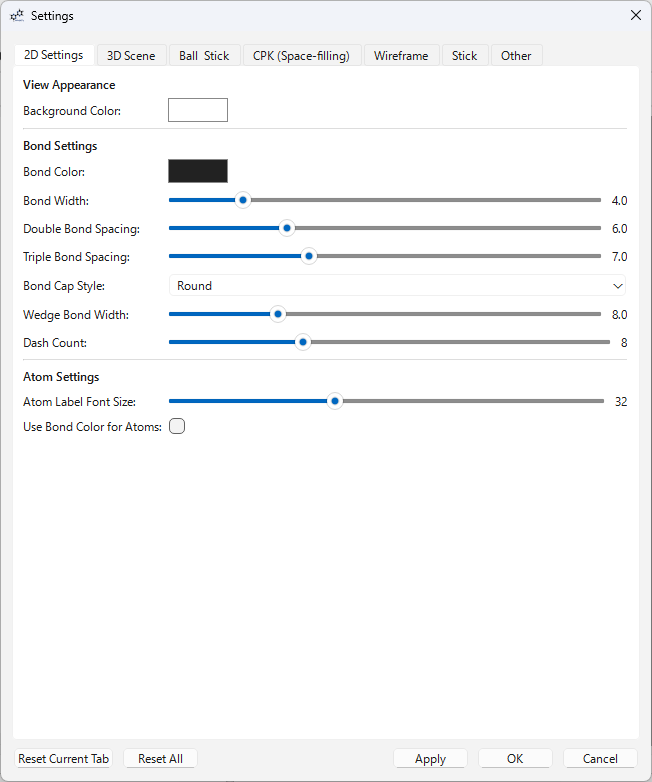
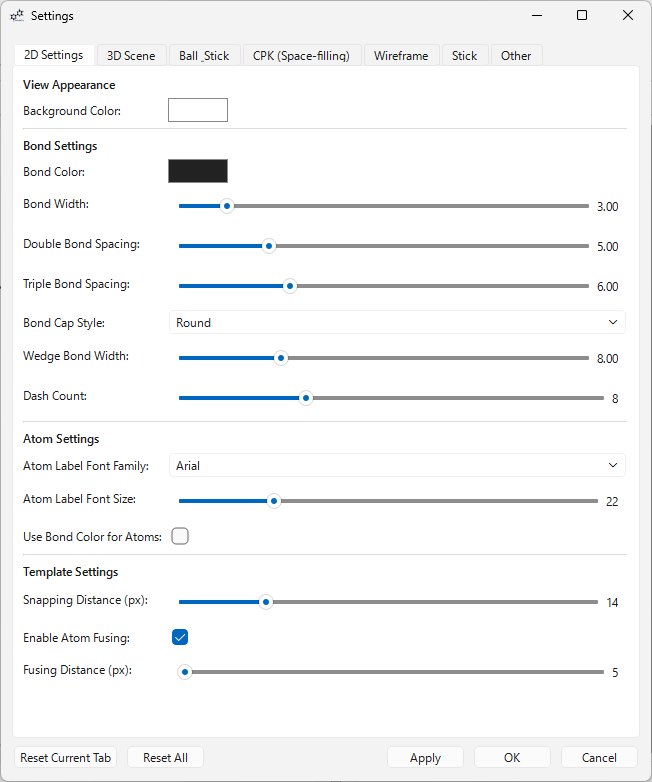
chore: bump version to 3.5.2, update manuals and clean unused settings

diff --git a/moleditpy/src/moleditpy/utils/default_settings.py b/moleditpy/src/moleditpy/utils/default_settings.py
@@ -19,7 +19,6 @@ DEFAULT_SETTINGS = {
     "specular_power": 20,
     "light_intensity": 1.0,
     "show_3d_axes": True,
-    "show_chiral_labels": False,
     # --- 3D Model Parameters (Ball and Stick) ---
     "ball_stick_atom_scale": 1.0,
     "ball_stick_bond_radius": 0.1,
@@ -33,7 +32,6 @@ DEFAULT_SETTINGS = {
     # --- 3D Model Parameters (CPK) ---
     "cpk_atom_scale": 1.0,
     "cpk_resolution": 32,
-    "cpk_colors": {},
     # --- 3D Model Parameters (Wireframe) ---
     "wireframe_bond_radius": 0.02,
     "wireframe_resolution": 6,
@@ -58,12 +56,9 @@ DEFAULT_SETTINGS = {
     "optimize_intermolecular_interaction_rdkit": True,
     "skip_chemistry_checks": False,
     "always_ask_charge": False,
-    # --- Interaction and Selection ---
-    "use_high_fidelity_selection": True,
-    "selection_color": "#FFD700",
-    "high_quality_meshing": True,
-    "atom_label_color": "#000000",
+    # --- Color ---
     "bond_color": "#808080",
+    "cpk_colors": {},
     # --- 2D Settings ---
     "bond_width_2d": 2.0,
     "bond_spacing_double_2d": 3.5,
@@ -79,10 +74,4 @@ DEFAULT_SETTINGS = {
     "template_fusing_enabled_2d": True,
     "template_fusing_distance_2d": 14.0,
     "template_snapping_distance_2d": 14.0,
-    # --- Application Session / UI State ---
-    "theme": "light",
-    "window_size": [1200, 800],
-    "window_position": [100, 100],
-    "splitter_sizes": [600, 600],
-    "last_dir": "",
 }

diff --git a/moleditpy/src/moleditpy/ui/main_window_init.py b/moleditpy/src/moleditpy/ui/main_window_init.py
@@ -613,12 +613,18 @@ class MainInitManager:
             )
 
     def save_settings(self) -> None:
+        if (
+            not self.host.init_manager.settings_dirty
+            or self.host.init_manager.settings == self.host.initial_settings
+        ):
+            return
         try:
             if not os.path.exists(self.host.init_manager.settings_dir):
                 os.makedirs(self.host.init_manager.settings_dir)
             with open(self.host.init_manager.settings_file, "w", encoding="utf-8") as f:
                 json.dump(self.host.init_manager.settings, f, indent=4)
             self.host.init_manager.settings_dirty = False
+            self.host.initial_settings = self.host.init_manager.settings.copy()
         except (AttributeError, RuntimeError, ValueError) as e:
             print(f"Error saving settings: {e}")
 

diff --git a/manual/manual.md b/manual/manual.md
@@ -1,5 +1,38 @@
 # MoleditPy User Manual
 
+## Table of Contents
+
+- [1. Introduction](#1-introduction)
+- [2. Installation and Launch](#2-installation-and-launch)
+- [3. Screen Layout](#3-screen-layout)
+- [4. Basic Operations (2D Edit View)](#4-basic-operations-2d-edit-view)
+  - [4.1. Selecting a Drawing Mode](#41-selecting-a-drawing-mode)
+  - [4.2. Atom and Bond Operations](#42-atom-and-bond-operations)
+  - [4.3. Using Templates](#43-using-templates)
+  - [4.4. Undo/Redo](#44-undoredo)
+  - [4.5. Copy/Cut/Paste](#45-copycutpaste)
+  - [4.6. Other Edit/View Functions](#46-other-editview-functions)
+- [5. File Operations](#5-file-operations)
+  - [5.1. Project Files (.pmeprj (Python Molecular Editor Project File))](#51-project-files-pmeprj-python-molecular-editor-project-file)
+  - [5.2. Import](#52-import)
+  - [5.3. Export](#53-export)
+- [6. 3D Functions](#6-3d-functions)
+  - [6.1. 2D to 3D Conversion](#61-2d-to-3d-conversion)
+  - [6.2. 3D Structure Optimization](#62-3d-structure-optimization)
+  - [6.3. Changing 3D Display Style](#63-changing-3d-display-style)
+  - [6.4. 3D View Operations](#64-3d-view-operations)
+  - [6.5. Official Plugin Repository](#65-official-plugin-repository)
+  - [6.6. 3D Measurement Function ("3D Select" Mode)](#66-3d-measurement-function-3d-select-mode)
+  - [6.7. 3D Editing Function ("3D Drag" Mode / Alt Key)](#67-3d-editing-function-3d-drag-mode-alt-key)
+  - [6.8. Other 3D Editing Functions (Menu `3D Edit`)](#68-other-3d-editing-functions-menu-3d-edit)
+  - [6.9. Constrained Optimization](#69-constrained-optimization)
+  - [6.10. Displaying Atom Information](#610-displaying-atom-information)
+- [7. Molecular Analysis](#7-molecular-analysis)
+- [8. Settings](#8-settings)
+- [9. Keyboard Shortcuts](#9-keyboard-shortcuts)
+- [10. Version / License](#10-version-license)
+
+
 ## 1\. Introduction
 
 MoleditPy is a molecular editing software developed in Python. Through an intuitive interface, it allows for the drawing and editing of molecular structures in 2D, as well as the generation, display, and editing of 3D structures.
@@ -132,7 +165,7 @@ Select a drawing mode by clicking a button on the main toolbar or pressing the c
 
 ### 4.3. Using Templates
 
-  * **Standard Templates:** Click a button on the template toolbar (benzene ring, cyclohexane ring, etc.) to select the mode, then click on the canvas to place it. Clicking on an existing atom or bond allows you to merge the structures.
+  * **Standard Templates:** Click a button on the template toolbar (benzene ring, cyclohexane ring, etc.) to select the mode, then click on the canvas to place it. Clicking on an existing atom or bond allows you to merge the structures. Template snapping distance and fusing settings can be adjusted in the `Settings` menu.
 
   * **User Templates:**
 
@@ -175,9 +208,9 @@ Perform various file operations from the `File` menu in the menu bar.
 
 ### 5.2. Import
 
-  * **Import \> MOL/SDF File...:** Loads a MOL or SDF file and displays it as a 2D structure. Even if the file contains 3D coordinates, 2D coordinates will be recalculated (stereochemistry is preserved).
-  * **Import \> SMILES...:** Opens a dialog to input a SMILES string and displays the input molecule as a 2D structure.
-  * **Import \> InChI...:** Opens a dialog to input an InChI string and displays the input molecule as a 2D structure.
+  * **Import \> MOL/SDF File...:** Loads a MOL or SDF file and displays it as a 2D structure. Even if the file contains 3D coordinates, 2D coordinates will be recalculated (stereochemistry is preserved). You can choose to overwrite the current canvas or append to the existing scene.
+  * **Import \> SMILES...:** Opens a dialog to input a SMILES string and displays the input molecule as a 2D structure. You can choose to overwrite or append.
+  * **Import \> InChI...:** Opens a dialog to input an InChI string and displays the input molecule as a 2D structure. You can choose to overwrite or append.
   * **Import \> 3D MOL/SDF (3D View Only)...:** Loads a MOL/SDF file with 3D coordinates and displays it **in the 3D view only** (the 2D editor is cleared). This enters 3D viewer mode.
   * **Import \> 3D XYZ (3D View Only)...:** Loads an XYZ file and displays it **in the 3D view only** (the 2D editor is cleared). Bonds are estimated based on interatomic distances. This enters 3D viewer mode.
 
@@ -280,7 +313,7 @@ You can directly edit the atomic coordinates of the 3D structure. Turn on the **
 
 These functions are available from the menu when a 3D structure is displayed. Many open a dedicated dialog where you can select atoms or input parameters.
 
-  * **Translation...:** Translates the entire molecule or a selected group of atoms by specified coordinates. **An option to translate only the selected atoms is also available.**
+  * **Translation...:** Translates the entire molecule or a selected group of atoms. You can specify translation using relative coordinates (shift amount) or absolute coordinate mode to move the selection to an exact position in 3D space. **An option to translate only the selected atoms is also available.**
 
   * **Move Group...:** Allows for the selection and manipulation of connected molecular fragments (groups).
 
@@ -331,7 +364,7 @@ This is an advanced feature that performs a molecular structure optimization (fo
 
 From the menu `View` \> `3D Atom Info Display`, you can select the information to be displayed above each atom in the 3D view.
 
-  * **Show Original ID / Index (or Show XYZ Unique ID):** Displays the original ID if from the 2D editor, or the index within the XYZ file if from an XYZ file.
+  * **Show Original ID / Index (or Show XYZ Unique ID):** Displays the original ID if from the 2D editor, or the index within the XYZ file if from an XYZ file. Also includes a 0/1-base submenu to switch the starting index.
   * **Show RDKit Index:** Displays the internal RDKit atom index.
   * **Show Coordinates (X,Y,Z):** Displays the 3D coordinates of each atom.
   * **Show Element Symbol:** Displays the element symbol for each atom.
@@ -463,7 +496,7 @@ You can also reset all settings to defaults via `Settings` \> `Reset All Setting
 
 ## 10\. Version / License
 
-  * **Version:** 3.0
+  * **Version:** 3.5
   * **Author:** Hiromichi Yokoyama
   * **License:** GPL-3.0 license
   * **Repository:** [https://github.com/HiroYokoyama/python\_molecular\_editor](https://github.com/HiroYokoyama/python_molecular_editor)

diff --git a/tests/coverage_report.md b/tests/coverage_report.md
@@ -1,7 +1,7 @@
 # MoleditPy Coverage Report
 
-- **Overall Project Coverage (Full)**: **79.62%**
-- **Core Molecular Logic Coverage**: **81.45%**
+- **Overall Project Coverage (Full)**: **79.58%**
+- **Core Molecular Logic Coverage**: **81.40%**
 
 > [!NOTE]
 > **Core Molecular Logic Coverage** excludes UI boilerplate (dialogs, view managers, and interactor styles) to focus on scientific algorithm reliability.
@@ -37,15 +37,15 @@
 | moleditpy\src\moleditpy\ui\edit_actions_logic.py        |    858 |    217 |   74.7% |
 | moleditpy\src\moleditpy\ui\export_logic.py              |    534 |    160 |   70.0% |
 | moleditpy\src\moleditpy\ui\io_logic.py                  |    637 |    131 |   79.4% |
-| moleditpy\src\moleditpy\ui\main_window_init.py          |   1247 |    169 |   86.4% |
+| moleditpy\src\moleditpy\ui\main_window_init.py          |   1250 |    175 |   86.0% |
 | moleditpy\src\moleditpy\ui\molecular_scene_handler.py   |    903 |    169 |   81.3% |
-| moleditpy\src\moleditpy\ui\molecule_scene.py            |    521 |    139 |   73.3% |
+| moleditpy\src\moleditpy\ui\molecule_scene.py            |    521 |    141 |   72.9% |
 | moleditpy\src\moleditpy\ui\move_group_dialog.py         |    373 |    131 |   64.9% |
 | moleditpy\src\moleditpy\ui\settings_dialog.py           |    107 |     11 |   89.7% |
 | moleditpy\src\moleditpy\ui\string_importers.py          |    128 |     27 |   78.9% |
 | moleditpy\src\moleditpy\ui\template_preview_item.py     |    105 |      5 |   95.2% |
 | moleditpy\src\moleditpy\ui\template_preview_view.py     |     45 |      4 |   91.1% |
-| moleditpy\src\moleditpy\ui\ui_manager.py                |    388 |    118 |   69.6% |
+| moleditpy\src\moleditpy\ui\ui_manager.py                |    388 |    116 |   70.1% |
 | moleditpy\src\moleditpy\ui\user_template_dialog.py      |    365 |     85 |   76.7% |
 | moleditpy\src\moleditpy\ui\view_3d_logic.py             |   1017 |    267 |   73.7% |
 | moleditpy\src\moleditpy\ui\zoomable_view.py             |     77 |      0 |  100.0% |
@@ -56,7 +56,7 @@
 | moleditpy\src\moleditpy\utils\constants.py              |     54 |     17 |   68.5% |
 | moleditpy\src\moleditpy\utils\default_settings.py       |      1 |      0 |  100.0% |
 | moleditpy\src\moleditpy\utils\sip_isdeleted_safe.py     |     19 |      7 |   63.2% |
-| **TOTAL** | **13151** | **2440** | **81.45%** |
+| **TOTAL** | **13154** | **2446** | **81.40%** |
 
 ### Full Application Breakdown
 
@@ -96,10 +96,10 @@
 | moleditpy\src\moleditpy\ui\geometry_base_dialog.py      |     61 |      8 |   86.9% |
 | moleditpy\src\moleditpy\ui\io_logic.py                  |    637 |    131 |   79.4% |
 | moleditpy\src\moleditpy\ui\main_window.py               |     76 |     19 |   75.0% |
-| moleditpy\src\moleditpy\ui\main_window_init.py          |   1247 |    169 |   86.4% |
+| moleditpy\src\moleditpy\ui\main_window_init.py          |   1250 |    175 |   86.0% |
 | moleditpy\src\moleditpy\ui\mirror_dialog.py             |     71 |      7 |   90.1% |
 | moleditpy\src\moleditpy\ui\molecular_scene_handler.py   |    903 |    169 |   81.3% |
-| moleditpy\src\moleditpy\ui\molecule_scene.py            |    521 |    139 |   73.3% |
+| moleditpy\src\moleditpy\ui\molecule_scene.py            |    521 |    141 |   72.9% |
 | moleditpy\src\moleditpy\ui\move_group_dialog.py         |    373 |    131 |   64.9% |
 | moleditpy\src\moleditpy\ui\periodic_table_dialog.py     |     34 |      7 |   79.4% |
 | moleditpy\src\moleditpy\ui\planarize_dialog.py          |    111 |     13 |   88.3% |
@@ -108,7 +108,7 @@
 | moleditpy\src\moleditpy\ui\template_preview_item.py     |    105 |      5 |   95.2% |
 | moleditpy\src\moleditpy\ui\template_preview_view.py     |     45 |      4 |   91.1% |
 | moleditpy\src\moleditpy\ui\translation_dialog.py        |    243 |     11 |   95.5% |
-| moleditpy\src\moleditpy\ui\ui_manager.py                |    388 |    118 |   69.6% |
+| moleditpy\src\moleditpy\ui\ui_manager.py                |    388 |    116 |   70.1% |
 | moleditpy\src\moleditpy\ui\user_template_dialog.py      |    365 |     85 |   76.7% |
 | moleditpy\src\moleditpy\ui\view_3d_logic.py             |   1017 |    267 |   73.7% |
 | moleditpy\src\moleditpy\ui\zoomable_view.py             |     77 |      0 |  100.0% |
@@ -120,7 +120,7 @@
 | moleditpy\src\moleditpy\utils\default_settings.py       |      1 |      0 |  100.0% |
 | moleditpy\src\moleditpy\utils\sip_isdeleted_safe.py     |     19 |      7 |   63.2% |
 | moleditpy\src\moleditpy\utils\system_utils.py           |     36 |      2 |   94.4% |
-| **TOTAL** | **14899** | **3037** | **79.62%** |
+| **TOTAL** | **14902** | **3043** | **79.58%** |
 
 ## Test Suite Status
 - **Unit tests**: PASSED

diff --git a/windows-installer/windows_installer.md b/windows-installer/windows_installer.md
@@ -22,11 +22,11 @@ Note: As `pip` is not included in this package, plugins requiring external depen
 Please download the installer from the link below.
 The download will start upon clicking.
 
-[Download MoleditPy Windows Installer](https://github.com/HiroYokoyama/python_molecular_editor/releases/download/3.5.1/MoleditPy_3.5.1_win64_setup.exe)
+[Download MoleditPy Windows Installer](https://github.com/HiroYokoyama/python_molecular_editor/releases/download/3.5.2/MoleditPy_3.5.2_win64_setup.exe)
 
 A portable version is also available:
 
-[Download MoleditPy Windows Portable](https://github.com/HiroYokoyama/python_molecular_editor/releases/download/3.5.1/MoleditPy_3.5.1_win64_portable.zip)
+[Download MoleditPy Windows Portable](https://github.com/HiroYokoyama/python_molecular_editor/releases/download/3.5.2/MoleditPy_3.5.2_win64_portable.zip)
 
 ## Installation Steps
 